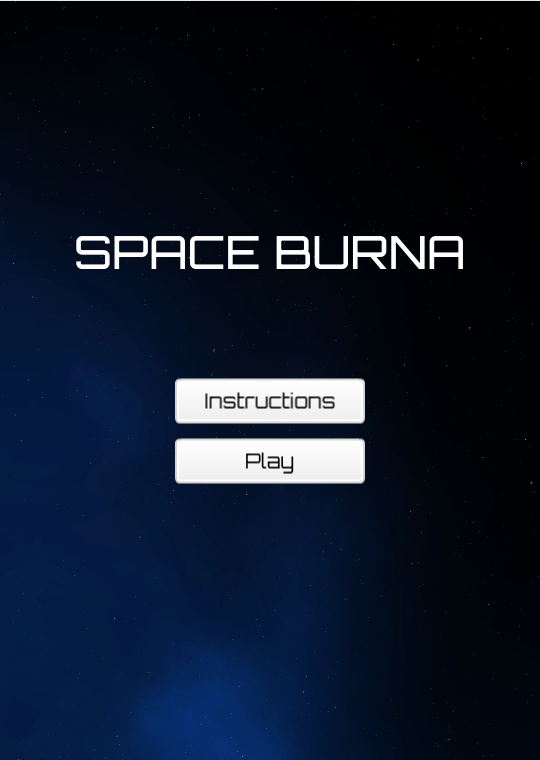
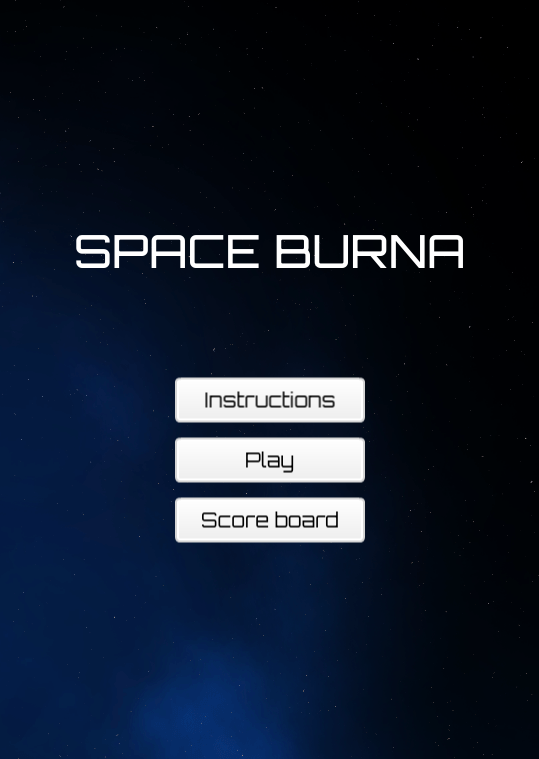
Add extra functionalities: add buttom to score board on main menu add button to menu on score boadr add health to meteor to make it more difficult to destroy

diff --git a/src/scenes/Game.js b/src/scenes/Game.js
@@ -165,6 +165,7 @@ export default class Game extends Phaser.Scene {
                         Phaser.Math.Between(0, this.game.config.width),
                         0
                     );
+                    enemy.setScale(Phaser.Math.Between(10, 5) * 0.05)
                 } else if (Phaser.Math.Between(0, 10) >= 5) {
                     if (this.getEnemiesByType("ChaserShip").length < 5) {
                         enemy = new ChaserShip(
@@ -172,6 +173,7 @@ export default class Game extends Phaser.Scene {
                             Phaser.Math.Between(0, this.game.config.width),
                             0
                         )
+                        enemy.setScale(Phaser.Math.Between(10, 5) * 0.05)
                     }
                 } else {
                     enemy = new Meteore(
@@ -179,10 +181,10 @@ export default class Game extends Phaser.Scene {
                         Phaser.Math.Between(0, this.game.config.width),
                         0
                     )
+                    enemy.setScale(Phaser.Math.Between(15, 10) * 0.05)
                 }
 
                 if (enemy !== null) {
-                    enemy.setScale(Phaser.Math.Between(10, 5) * 0.05)
                     this.enemies.add(enemy);
                 }
 
@@ -246,7 +248,12 @@ export default class Game extends Phaser.Scene {
                 enemy.onDestroy();
             }
 
-            enemy.explode(true);
+            if (enemy.onDamage !== undefined) {
+                enemy.onDamage();
+            } else {
+                enemy.explode(true);
+            }
+            
             playerLaser.destroy();
             
             if(Logic.calcIncreaseScore(this.player.data.values)) {
@@ -273,14 +280,18 @@ export default class Game extends Phaser.Scene {
 
     setPlayerDamageTexture() {
         let playerHealth = this.player.getData("health")
+        let texture
 
         if (playerHealth >= 75 && (playerHealth < 100)) {
-            return this.player.setTexture(Constants.textures.playerDamage1)
+            texture = Constants.textures.playerDamage1
         } else if (playerHealth >= 50) {
-            return this.player.setTexture(Constants.textures.playerDamage2)
-        } if (playerHealth >= 0) {
-            return this.player.setTexture(Constants.textures.playerDamage3)
+            texture = Constants.textures.playerDamage2
+        } else if (playerHealth >= 0) {
+            texture = Constants.textures.playerDamage3
         }
+
+        this.player.setData("currentTexture", texture)
+        this.player.setTexture(texture)
     }
 
     killPlayer(player) {
@@ -317,7 +328,7 @@ export default class Game extends Phaser.Scene {
                 delay: 5000,
                 callback: () => {
                     player.setData("isShield", false);
-                    player.setTexture("player")
+                    player.setTexture(this.player.getData("currentTexture"))
                 },
                 callbackScope: this,
                 loop: false

diff --git a/src/scenes/MainMenu.js b/src/scenes/MainMenu.js
@@ -40,12 +40,19 @@ export default class MainMenu extends Phaser.Scene {
             Constants.buttons.up
         );
 
+        this.btnScore = this.add.sprite(
+            this.game.config.width * 0.5,
+            520,
+            Constants.buttons.up
+        )
+
         buttonHelper.addButtonFunctionality(this, this.btnInstructions, () => this.scene.start("Instructions"));
         buttonHelper.addButtonFunctionality(this, this.btnPlay, () => this.scene.start("Game"));
-        
+        buttonHelper.addButtonFunctionality(this, this.btnScore, () => this.scene.start("Score"));
 
         buttonHelper.addButtonText(this, 400, "Instructions")
         buttonHelper.addButtonText(this, 460, "Play")
+        buttonHelper.addButtonText(this, 520, "Score board")
 
         this.title = this.add.text(this.game.config.width * 0.5, 250, "SPACE BURNA", {
             fontFamily: 'Orbitron',

diff --git a/src/game/Player.js b/src/game/Player.js
@@ -2,18 +2,20 @@ import "phaser";
 import Entity from "./Entities"
 import PlayerLaser from "./PlayerLaser"
 import * as Logic from "../helpers/GameLogic";
+import constants from "../helpers/constants";
 
 export default class Player extends Entity {
     constructor(scene, x, y, key) {
         super(scene, x, y, key, "Player");
         this.setData("health", 100),
-            this.setData("score", 0),
-            this.setData("speed", 200);
+        this.setData("score", 0),
+        this.setData("speed", 200);
         this.setData("isShooting", false);
         this.setData("timerShootDelay", 10);
         this.setData("timerShootCounter", Logic.setUpCounter(this.data.values));
         this.setData("shootingPower", 1);
         this.setData("isShield", false)
+        this.setData("currentTexture", constants.player)
     }
 
     moveUp() {

diff --git a/src/scenes/Score.js b/src/scenes/Score.js
@@ -27,12 +27,21 @@ export default class Score extends Phaser.Scene {
 
         this.btnPlay = this.add.sprite(
             this.game.config.width * 0.5,
-            660,
+            640,
+            Constants.buttons.up
+        );
+
+        this.btnMenu = this.add.sprite(
+            this.game.config.width * 0.5,
+            700,
             Constants.buttons.up
         );
 
         buttonHelper.addButtonFunctionality(this, this.btnPlay, () => this.scene.start("Game"))
-        buttonHelper.addButtonText(this, 660, "Play again")
+        buttonHelper.addButtonFunctionality(this, this.btnMenu, () => this.scene.start("MainMenu"))
+        
+        buttonHelper.addButtonText(this, 640, "Play")
+        buttonHelper.addButtonText(this, 700, "Menu")
 
         this.setUpScores()
     }

diff --git a/src/game/Meteore.js b/src/game/Meteore.js
@@ -1,5 +1,6 @@
 import "phaser";
 import Entity from "./Entities"
+import { decreaseMeteorHealth } from "../helpers/GameLogic"
 
 export default class Meteore extends Entity {
     constructor(scene, x, y) {
@@ -8,5 +9,15 @@ export default class Meteore extends Entity {
         
         super(scene, x, y, sprite, "Meteore");
         this.body.velocity.y = Phaser.Math.Between(50, 100);
+        this.body.setMass(7)
+        this.setData("health", 3)
+    }
+
+    onDamage() {
+        if (this.getData("health") === 1) {
+            this.explode(true)
+        } else {
+            decreaseMeteorHealth(this.data.values)
+        }
     }
 }

diff --git a/src/helpers/GameLogic.js b/src/helpers/GameLogic.js
@@ -31,12 +31,14 @@ export const decreaseShooting = (values) => {
     }
 }
 
-// PLAYER LOGIC
-
 export const setUpCounter = (values) => {
     values.timerShootCounter = values.timerShootDelay - 1
 }
 
 export const increaseShootCounter = (values) => {
     values.timerShootCounter += 1
+}
+
+export const decreaseMeteorHealth = (values) => {
+    values.health -= 1
 }

diff --git a/src/main.js b/src/main.js
@@ -14,7 +14,7 @@ let config = {
   physics: {
       default: "arcade",
       arcade: {
-          gravity: { x: 0, y: 0 }
+          gravity: { x: 0, y: 0 },
       }
     },
     scene: [MainMenu, Instructions, Game, GameOver, Score],

diff --git a/src/game/PlayerLaser.js b/src/game/PlayerLaser.js
@@ -5,5 +5,6 @@ export default class PlayerLaser extends Entity {
     constructor(scene, x, y) {
         super(scene, x, y, "laserPlayer");
         this.body.velocity.y = -200;
+        this.body.setMass(1)
     }
 }
